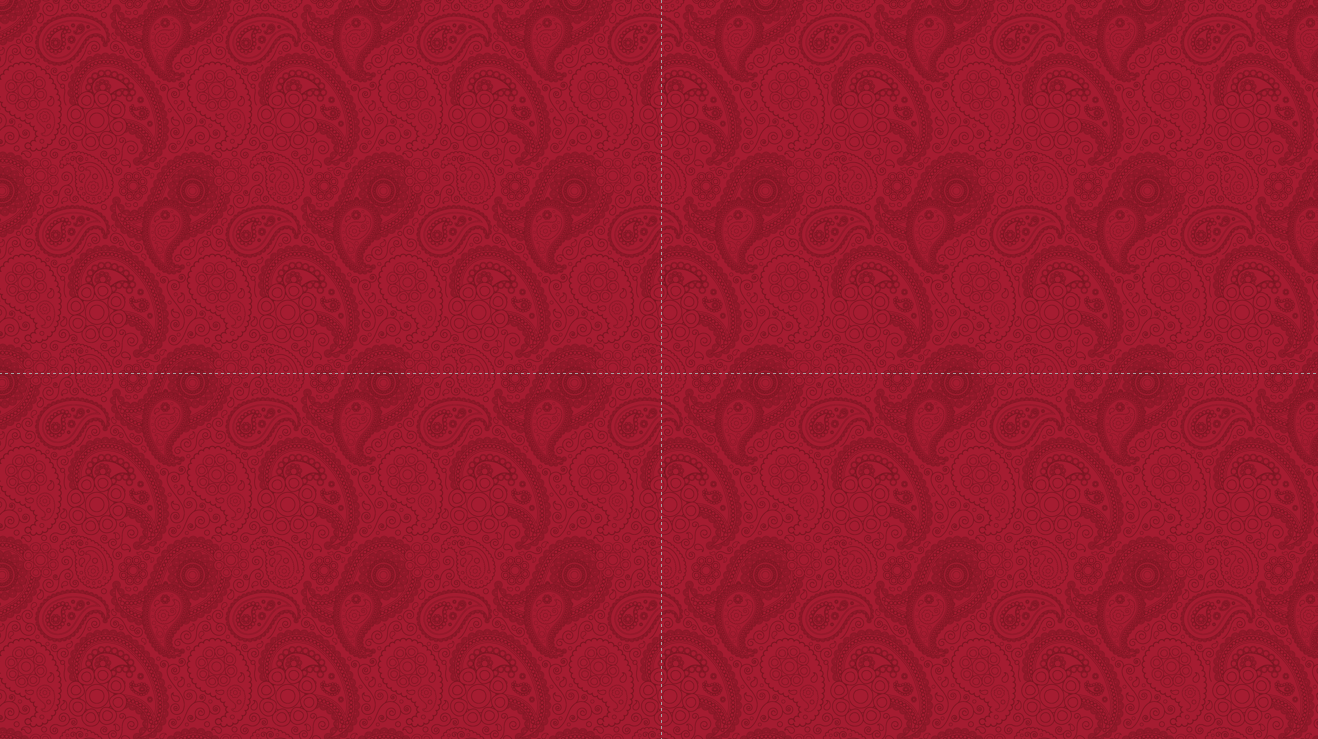
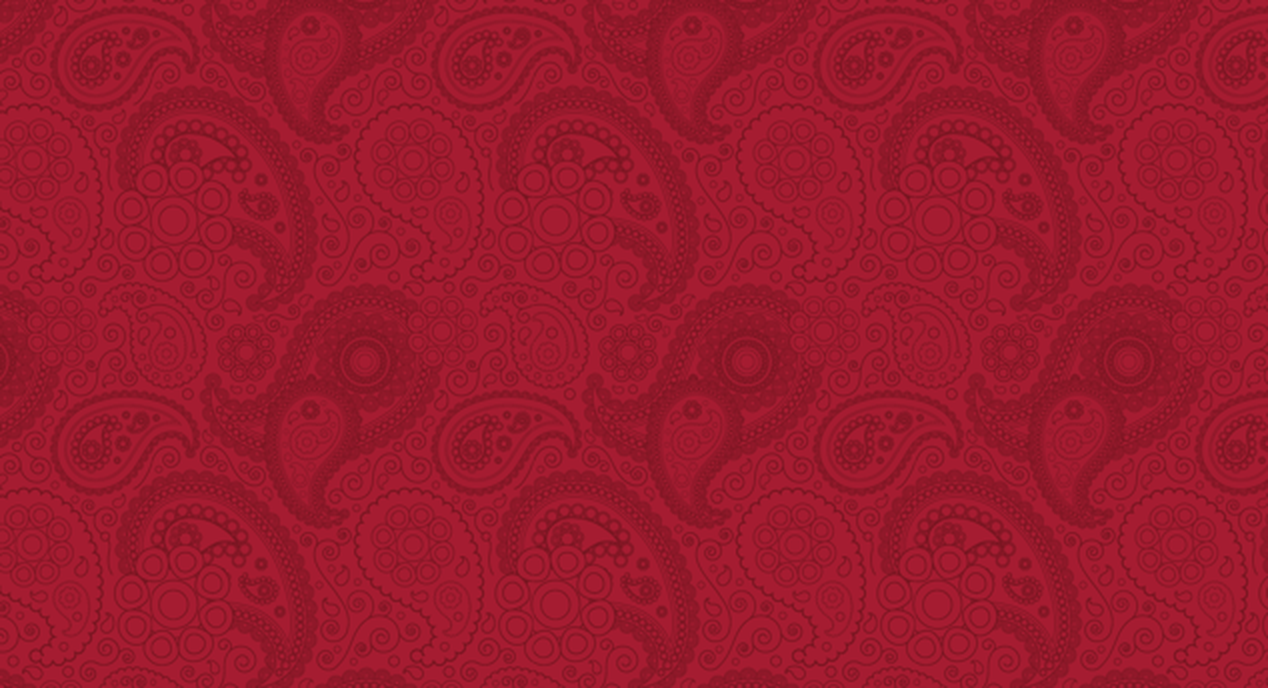
fix(monthly/wembley): vivid crimson bg (crosshair removed) + new Baba murti
- Lighten the overlay to a light crimson tint so the red paisley shows
  vividly instead of reading as the old dark maroon.
- Replace the background with a crosshair-free crop of the paisley (the
  source PNG had design guide-lines through the centre).
- Swap in the new Shri Shirdi Sai Baba murti photo for the blessing card.

Claude-Session: https://claude.ai/code/session_01NXH5bc4zKV2YCY2WwCAmLz

diff --git a/nginx/hub/monthly/wembley/index.html b/nginx/hub/monthly/wembley/index.html
@@ -17,12 +17,13 @@
   }
   body {
     font-family: -apple-system, BlinkMacSystemFont, 'Segoe UI', system-ui, sans-serif;
-    /* Crimson paisley temple backdrop (served from repo, same origin) under a
-       dark gradient overlay so the gold/ivory text stays fully legible. */
+    /* Crimson paisley temple backdrop (served from repo, same origin). Only a
+       light crimson-tinted overlay so the vivid red shows through, while the
+       gold/ivory text stays legible. */
     background:
-      linear-gradient(180deg, rgba(8,1,0,0.66) 0%, rgba(8,1,0,0.80) 60%, rgba(6,1,0,0.90) 100%),
-      url('/monthly/assets/bg-temple.png') center center / cover no-repeat fixed,
-      var(--bg-deep);
+      linear-gradient(180deg, rgba(120,15,30,0.20) 0%, rgba(80,8,18,0.34) 55%, rgba(55,5,12,0.48) 100%),
+      url('/monthly/assets/bg-temple.png') center top / cover no-repeat fixed,
+      #7d1122;
     color: var(--text); min-height: 100vh; padding-bottom: 3rem;
   }
   .font-display { font-family: 'Cinzel', Georgia, serif; }
